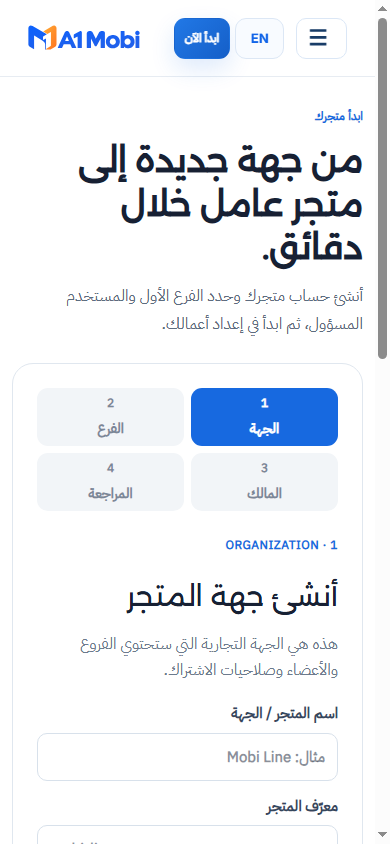
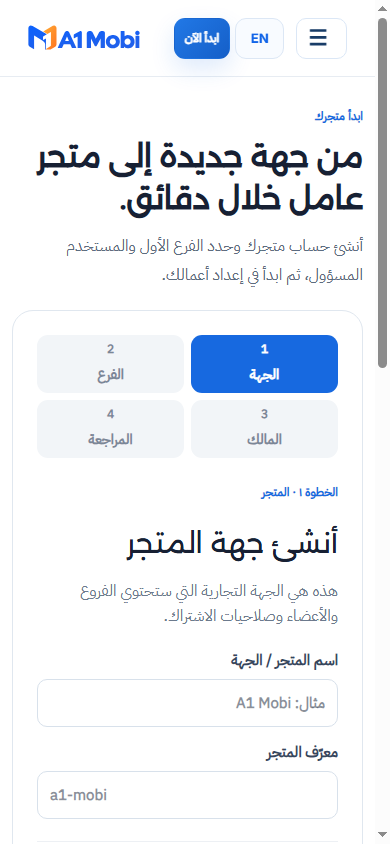
fix(mobi): improve Arabic signup readability and A1 Mobi example

diff --git a/src/components/trial-signup.tsx b/src/components/trial-signup.tsx
@@ -74,26 +74,26 @@ export function TrialSignup({locale}:{locale:"ar"|"en"}){
     <div className="signup-steps">{labels.map((label,index)=><button type="button" key={label} className={step===index+1?"active":step>index+1?"done":""} onClick={()=>index+1<step&&setStep(index+1)}><span>{step>index+1?"✓":index+1}</span>{label}</button>)}</div>
 
     {step===1&&<section className="signup-panel">
-      <span className="product-eyebrow">1 · ORGANIZATION</span><h2>{ar?"أنشئ جهة المتجر":"Create store organization"}</h2><p>{ar?"هذه هي الجهة التجارية التي ستحتوي الفروع والأعضاء وصلاحيات الاشتراك.":"This is the commercial organization that owns branches, members and subscription entitlements."}</p>
-      <label>{ar?"اسم المتجر / الجهة":"Store / organization name"}<input value={store} onChange={e=>{setStore(e.target.value);if(!slug)setSlug(slugify(e.target.value))}} placeholder={ar?"مثال: Mobi Line":"e.g. Mobi Line"} required/></label>
-      <label>{ar?"معرّف المتجر":"Store identifier"}<input value={effectiveSlug} onChange={e=>setSlug(slugify(e.target.value))} dir="ltr" placeholder="mobi-line" required/></label>
+      <span className="product-eyebrow">{ar?"الخطوة ١ · المتجر":"STEP 1 · STORE"}</span><h2>{ar?"أنشئ جهة المتجر":"Create store organization"}</h2><p>{ar?"هذه هي الجهة التجارية التي ستحتوي الفروع والأعضاء وصلاحيات الاشتراك.":"This is the commercial organization that owns branches, members and subscription entitlements."}</p>
+      <label>{ar?"اسم المتجر / الجهة":"Store / organization name"}<input value={store} onChange={e=>{setStore(e.target.value);if(!slug)setSlug(slugify(e.target.value))}} placeholder={ar?"مثال: A1 Mobi":"e.g. A1 Mobi"} required/></label>
+      <label>{ar?"معرّف المتجر":"Store identifier"}<input value={effectiveSlug} onChange={e=>setSlug(slugify(e.target.value))} dir="ltr" placeholder="a1-mobi" required/></label>
     </section>}
 
     {step===2&&<section className="signup-panel">
-      <span className="product-eyebrow">2 · BRANCH</span><h2>{ar?"أضف أول فرع":"Add first branch"}</h2><p>{ar?"يمكن للجهة امتلاك عدة فروع لاحقًا حسب الخطة.":"The organization can add more branches later according to its plan."}</p>
+      <span className="product-eyebrow">{ar?"الخطوة ٢ · الفرع":"STEP 2 · BRANCH"}</span><h2>{ar?"أضف أول فرع":"Add first branch"}</h2><p>{ar?"يمكن للجهة امتلاك عدة فروع لاحقًا حسب الخطة.":"The organization can add more branches later according to its plan."}</p>
       <label>{ar?"اسم الفرع":"Branch name"}<input value={branch} onChange={e=>setBranch(e.target.value)} placeholder={ar?"طرابلس - الفرع الرئيسي":"Tripoli - Main branch"} required/></label>
       <label>{ar?"كود الفرع":"Branch code"}<input value={branchCode} onChange={e=>setBranchCode(e.target.value.toUpperCase().replace(/[^A-Z0-9_-]/g,""))} dir="ltr" required/></label>
     </section>}
 
     {step===3&&<section className="signup-panel">
-      <span className="product-eyebrow">3 · OWNER</span><h2>{ar?"حساب مالك المتجر":"Store owner account"}</h2><p>{ar?"هذا المستخدم يحصل على Owner role داخل Tenant الجديد. فعّل MFA بعد أول دخول.":"This user receives the Owner role inside the new tenant. Enable MFA after first sign-in."}</p>
+      <span className="product-eyebrow">{ar?"الخطوة ٣ · المالك":"STEP 3 · OWNER"}</span><h2>{ar?"حساب مالك المتجر":"Store owner account"}</h2><p>{ar?"هذا المستخدم يحصل على Owner role داخل Tenant الجديد. فعّل MFA بعد أول دخول.":"This user receives the Owner role inside the new tenant. Enable MFA after first sign-in."}</p>
       <label>{ar?"اسم المالك":"Owner name"}<input value={ownerName} onChange={e=>setOwnerName(e.target.value)} autoComplete="name" required/></label>
       <label>{ar?"البريد":"Email"}<input value={email} onChange={e=>setEmail(e.target.value)} type="email" dir="ltr" autoComplete="email" required/></label>
       <label>{ar?"كلمة المرور":"Password"}<input value={password} onChange={e=>setPassword(e.target.value)} type="password" minLength={12} autoComplete="new-password" required/><small>{ar?"12 محرفًا على الأقل. لا تستخدم كلمة مرور مهمة في تجربة عامة.":"At least 12 characters. Do not reuse an important password in a public trial."}</small></label>
     </section>}
 
     {step===4&&<section className="signup-panel review-panel">
-      <span className="product-eyebrow">4 · REVIEW</span><h2>{ar?"راجع ثم ابدأ 7 أيام":"Review and start seven days"}</h2>
+      <span className="product-eyebrow">{ar?"الخطوة ٤ · المراجعة":"STEP 4 · REVIEW"}</span><h2>{ar?"راجع ثم ابدأ 7 أيام":"Review and start seven days"}</h2>
       <div className="review-grid">
         <div><small>{ar?"الجهة":"Organization"}</small><strong>{store}</strong></div>
         <div><small>Tenant</small><strong dir="ltr">{effectiveSlug}</strong></div>

diff --git a/src/app/globals.css b/src/app/globals.css
@@ -1393,3 +1393,10 @@ body,[lang="ar"],html[lang="ar"] body,.mobi-store{font-family:"Noto Sans Arabic 
  .product-site .mobi-a-why-grid p{font-size:13px}
  .product-site .mobi-a-proof-strip small{font-size:12px}
 }
+
+/* Final registration visual review: concise heading and balanced form. */
+.product-site .signup-page .page-intro.compact{padding-bottom:20px}
+.product-site .signup-page .page-intro.compact h1{font-size:clamp(31px,2.7vw,40px);line-height:1.38;max-width:790px;margin-block:9px 12px}
+.product-site .signup-page .page-intro.compact p{font-size:16px;max-width:850px;line-height:1.8}
+.product-site .signup-page .signup-layout .product-eyebrow{font-size:12px;letter-spacing:0}
+@media(max-width:640px){.product-site .signup-page .page-intro.compact h1{font-size:clamp(28px,7.8vw,35px)}}

diff --git a/docs/reviews/2026-10-20/a-nav-readability/A-RTL-READABILITY-CHECKPOINT.md b/docs/reviews/2026-10-20/a-nav-readability/A-RTL-READABILITY-CHECKPOINT.md
@@ -34,3 +34,11 @@ Browser assertions validate: true visual right-to-left navigation order, fixed l
 - The owner should compare `marketing-ar-home-desktop.png`, `marketing-en-home-desktop.png`, `marketing-ar-signup-desktop.png`, `marketing-ar-pricing-desktop.png` and phone images.
 - **No production deployment, no customer public link, no PR merge.**
 - This closes the specific nav/readability review, **not** the complete A/B/C retail pilot or production security gate.
+
+## Signup review follow-up (2026-10-20)
+
+- Changed the illustrative store-name placeholder to `A1 Mobi` in both languages and the suggested store identifier to `a1-mobi`.
+- Registration stage eyebrow labels are now Arabic on Arabic pages and English on English pages, rather than showing the English `ORGANIZATION` marker on the Arabic form.
+- Reduced the oversized signup headline and kept form text legible.
+- Re-ran the marketing browser review across **6 desktop and 6 phone cases: PASS**; desktop/mobile signup screenshots were refreshed.
+- Final account creation is not claimed; the owner is about to test the four-step signup together and confirm before any final submission.
